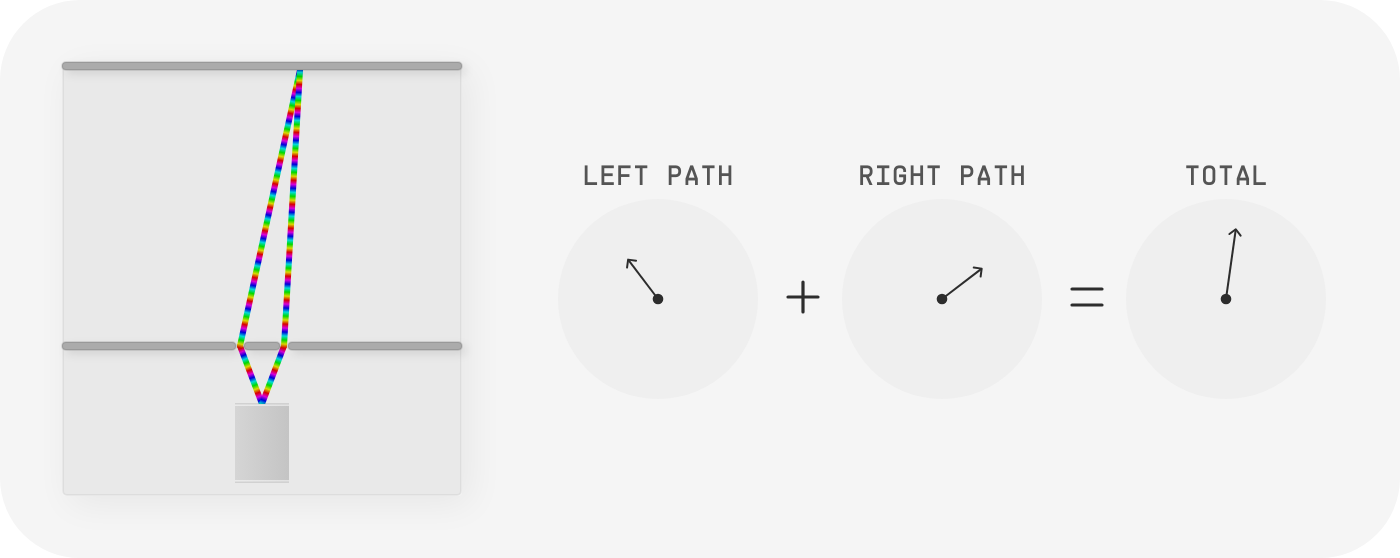
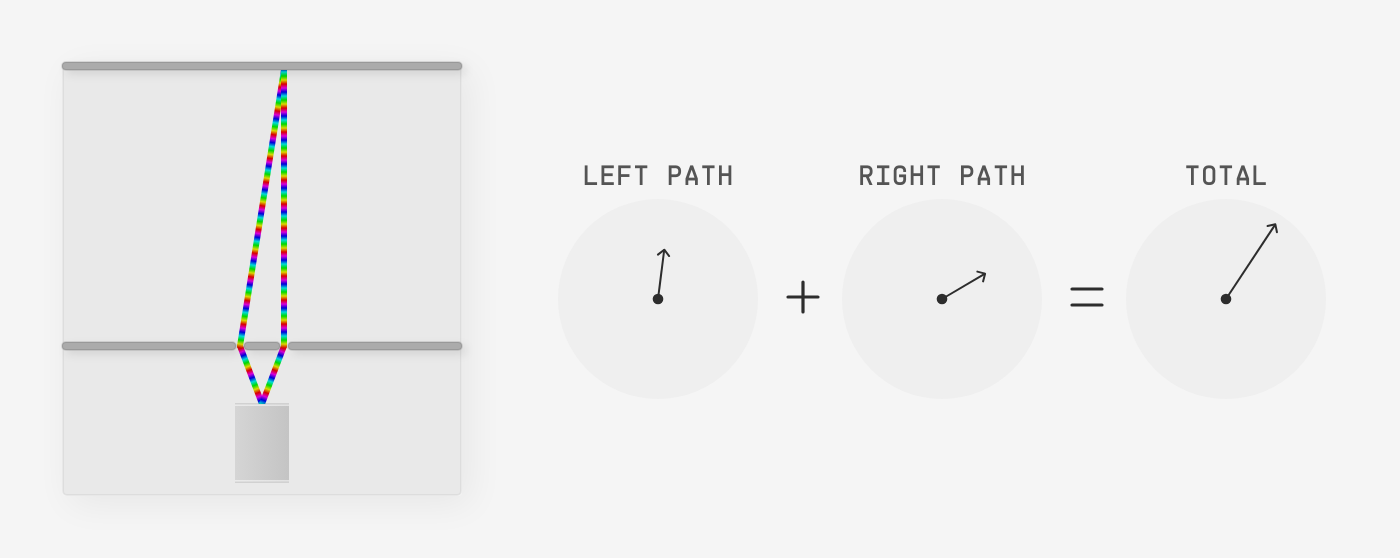
Double-slit stills: square corners, and move the middle one onto the slit
Two fixes to tools/double-slit-stills/render.mjs, then a re-render.

The stills captured the widget card's own 40px radius, and .post__figure
img rounds every figure again at 20px — two radii a few pixels apart,
which reads as a rendering fault rather than as a design. The harness now
squares the card off and lets the stylesheet do the rounding. All four
corners of each PNG are the card grey; the crop is unchanged, so the
figures stay at exactly 2.00x.

The middle still moves from 595 to 555, which puts the detector directly
above the right slit (111 of the drawing's 200 units). The right path is
then exactly vertical — the shortest it can be — and the left is at its
longest so far, which is the pair of claims the prose beside it makes.
Verified off the shipped PNG rather than the source: the right leg drifts
0.5px over its whole length, against 12px symmetric on the aligned still.

This deliberately gives up the λ/4 spot the other two are solved against.
The path difference here is 1.74 of a 12-unit wavelength, so the arrows
sit ~52° apart rather than a quarter turn, and the alt text no longer
claims one. The figure now matches its own sentence — "slightly out of
sync" — rather than the arithmetic of the figure after it.

diff --git a/src/posts/how-does-quantum-mechanics-work.md b/src/posts/how-does-quantum-mechanics-work.md
@@ -435,7 +435,7 @@ If the two paths are the same length – e.g. for the very middle spot on the se
 
 For a spot on the screen just to the *right* of the center, the left path is slightly *longer*, and the right path is slightly *shorter*. This means the quantum probability arrow of the left path will be a little more advanced, and the right path won’t advance as much. They’ll be slightly out of sync, and only add to a moderately larger arrow – representing a *moderate* probability of the photon landing at that spot.
 
-{% include img.md, src: "double-slit-paths-partial.png", width: "700px", alt: "The two paths meet just right of centre. The arrows are a quarter turn out of sync, and the total is a middling arrow." %}
+{% include img.md, src: "double-slit-paths-partial.png", width: "700px", alt: "The two paths meet directly above the right slit, so the right path runs straight up and is as short as it can be. The arrows are slightly out of sync, and the total is a little shorter than before." %}
 
 Finally, if you take a spot even farther to the right, the difference in left/right path lengths will increase further. When the path difference is exactly half a wavelength, the quantum probability arrows for the two paths will be pointed in opposite directions, and they will add to zero. These are the dark bands at which the photon never lands!
 
